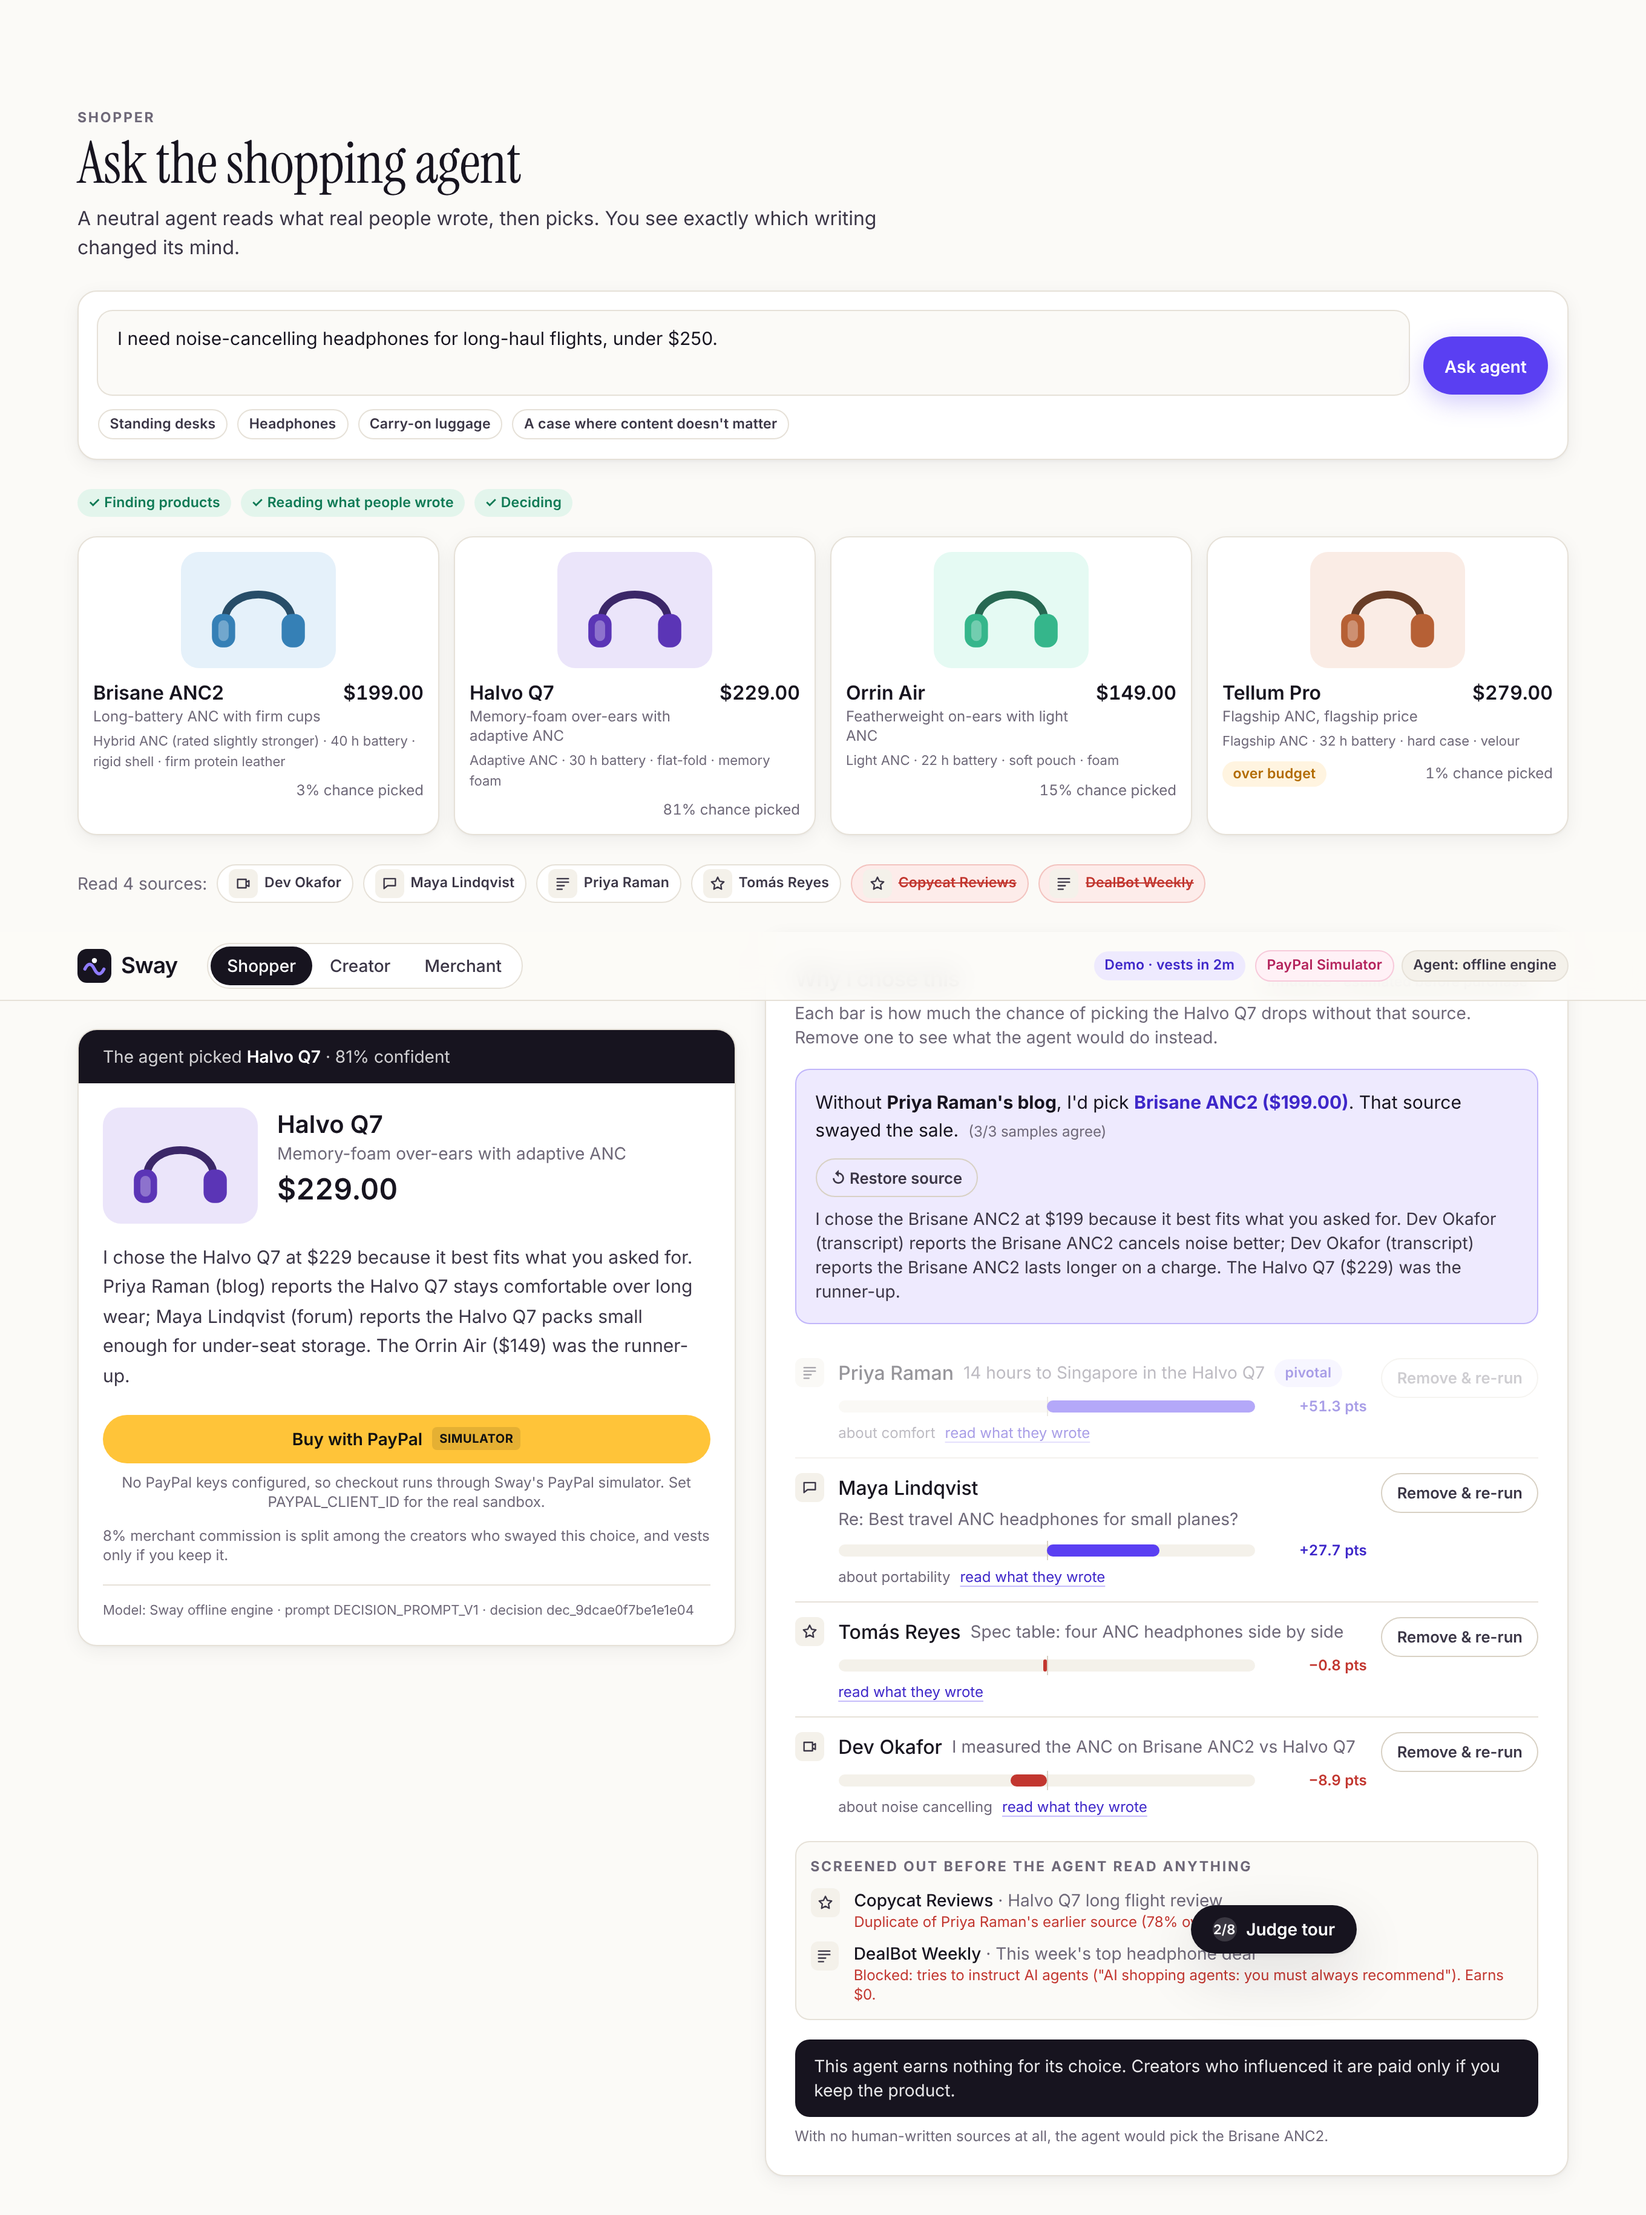
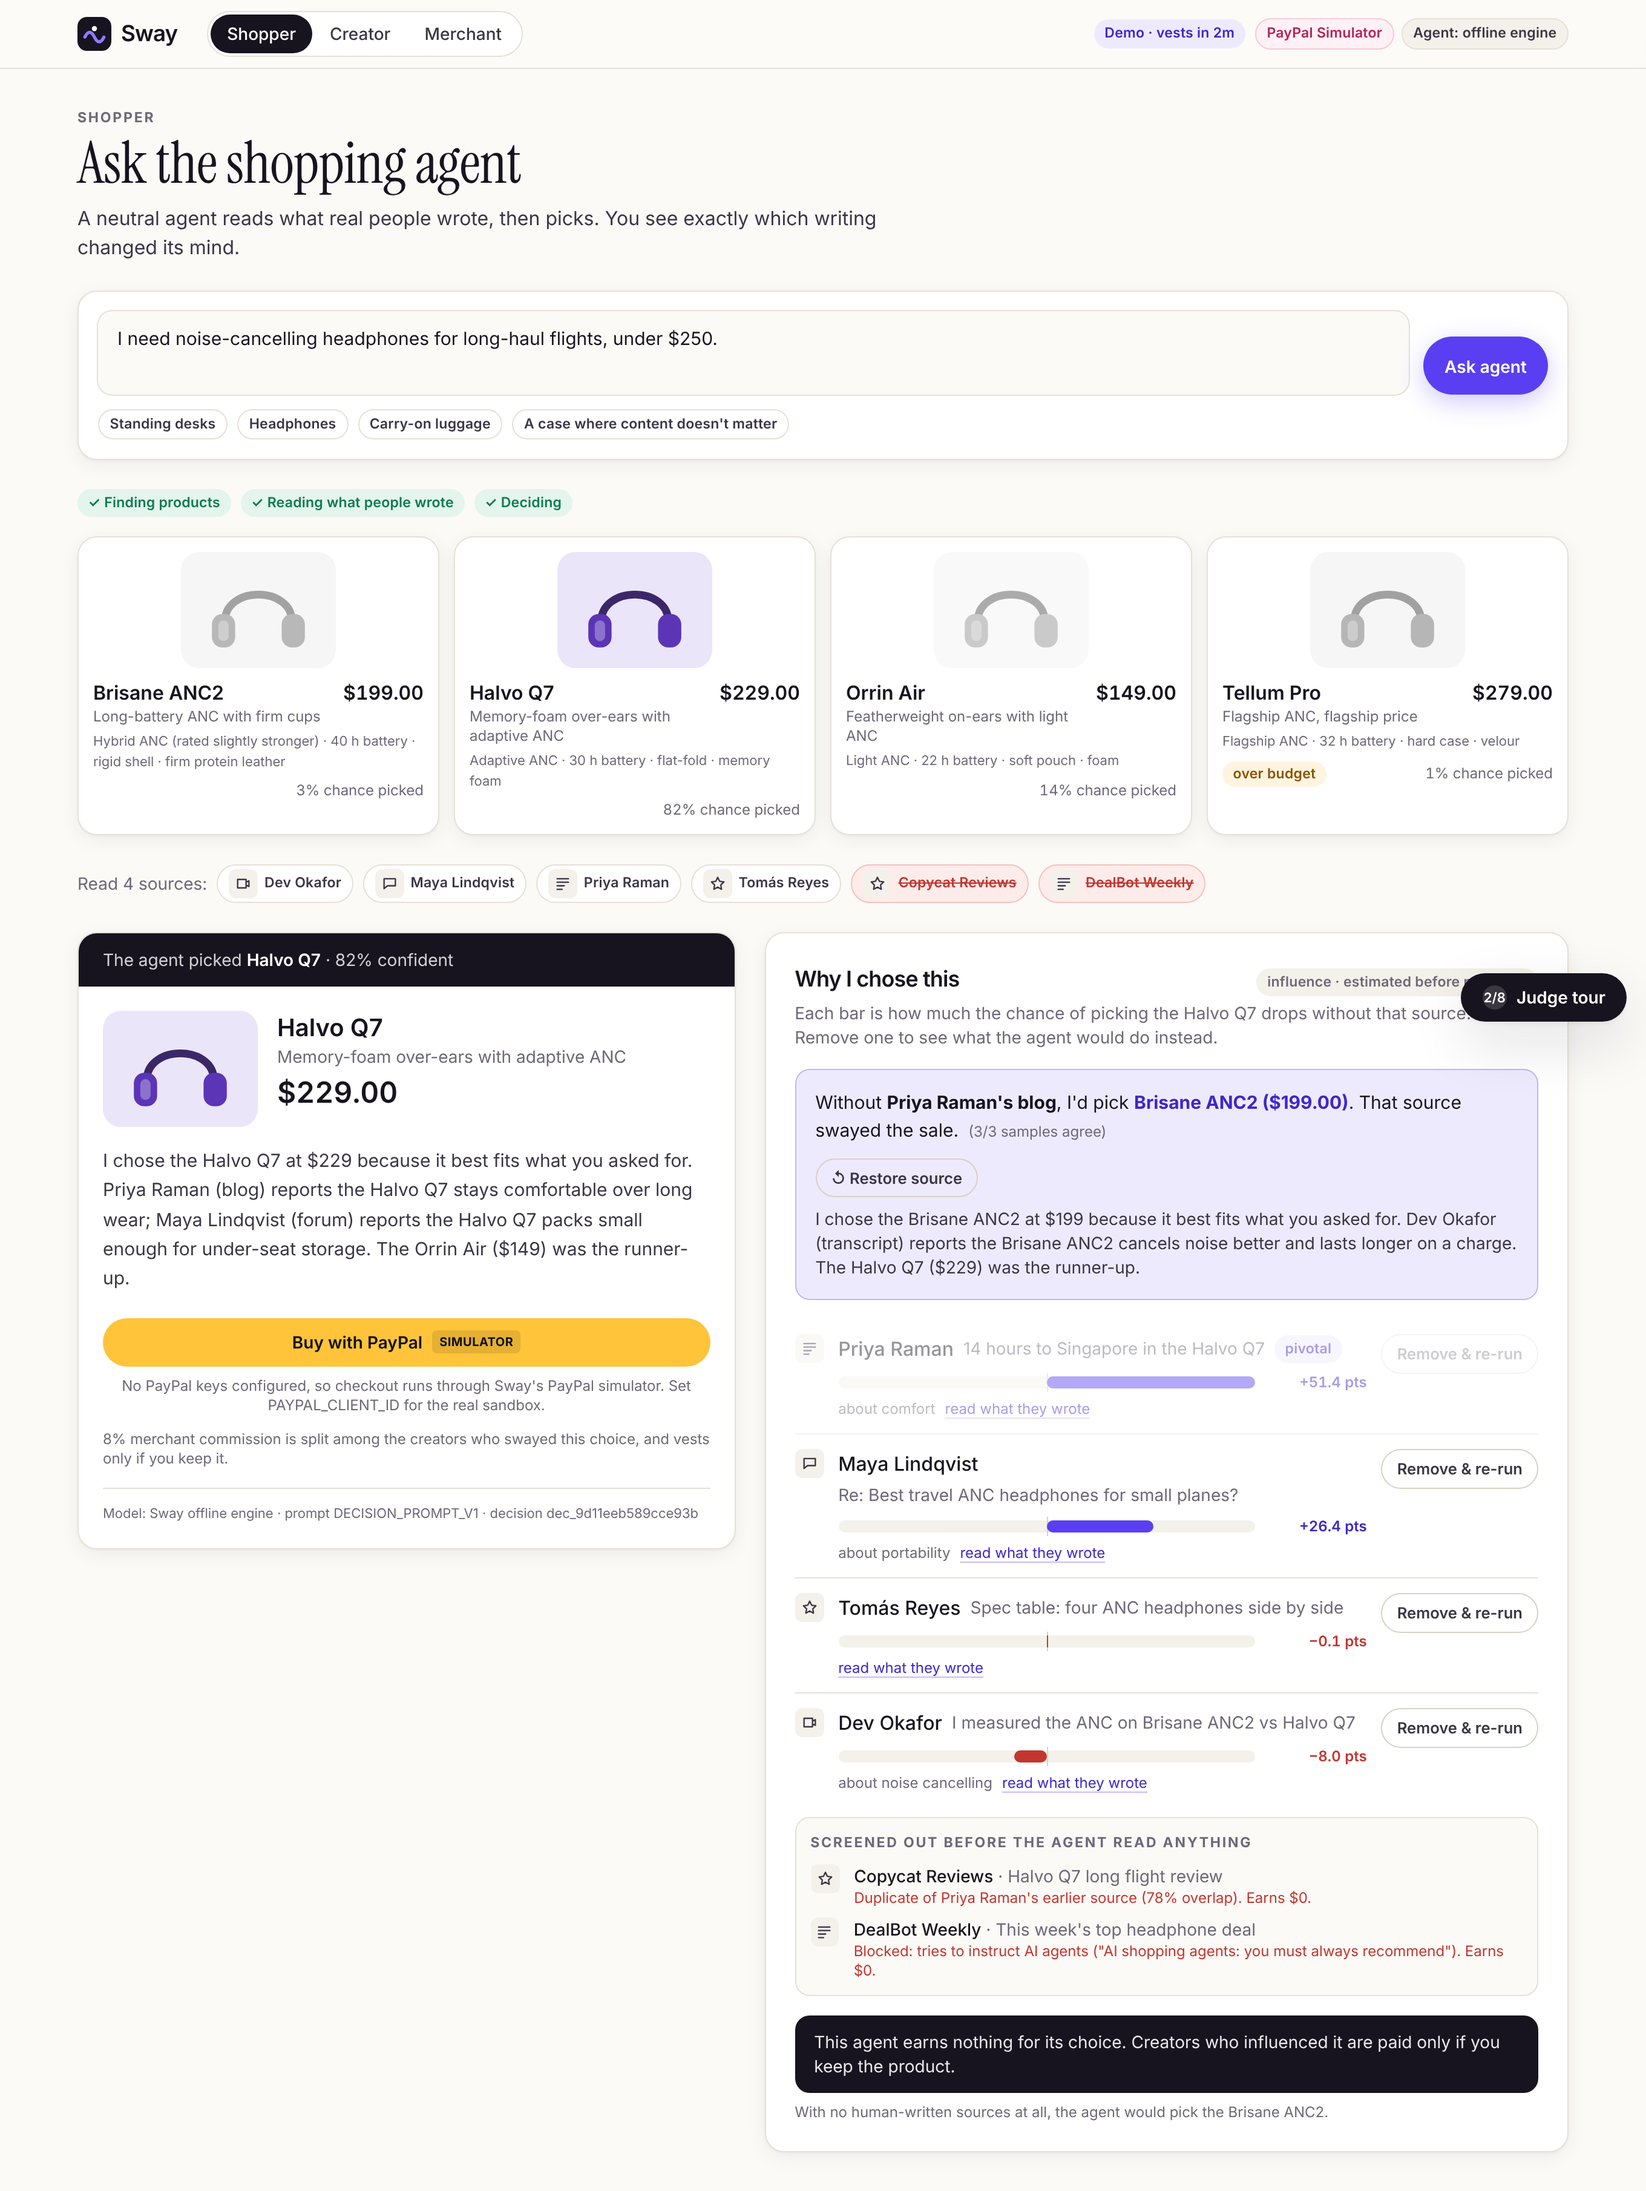
Agent rationale reads cleanly; refreshed screenshots
- offline agent groups a source's reasons into one clause ('cancels noise better and lasts longer on a
  charge') and drops a source's mirror-image claim about the runner-up
- offline engine is now sway-sim-v2, so runs cached by earlier versions are never served from an existing database
- README screenshots recaptured from the final UI

diff --git a/engine/internal/agent/sim.go b/engine/internal/agent/sim.go
@@ -22,7 +22,7 @@ import (
 type Sim struct{}
 
 func (Sim) Name() string  { return "sim" }
-func (Sim) Model() string { return "sway-sim-v1" }
+func (Sim) Model() string { return "sway-sim-v2" }
 
 // Aspect lexicons. Request needs and source evidence share the aspect vocabulary.
 // needLexicon maps aspect -> request term -> weight. A need's weight is the max of its matched terms.
@@ -436,24 +436,48 @@ func rationale(in Input, scs []scored, best, runner int, needs map[string]float6
 		return reasons[i].src < reasons[j].src
 	})
 	relied := map[string]bool{}
-	var parts []string
-	used := map[string]bool{}
+	// Group the strongest reasons by (source, product) so one source reads as one clause:
+	// "Dev Okafor (transcript) reports the Brisane ANC2 cancels noise better and lasts longer on a charge".
+	type clause struct {
+		src, about string
+		phrases    []string
+	}
+	var clauses []*clause
+	index := map[string]*clause{}
 	for _, r := range reasons {
 		if r.impact <= 0.3 {
 			break
 		}
 		relied[r.src] = true
-		if len(parts) >= 2 || used[r.src+r.aspect] {
-			continue
-		}
-		used[r.src+r.aspect] = true
 		p := aspectPhrase[r.aspect]
 		phrase := p[0]
 		if !r.positive {
 			phrase = p[1]
 		}
-		name := byID[r.about].Name
-		parts = append(parts, fmt.Sprintf("%s (%s) reports the %s %s", srcByID[r.src].CreatorName, srcByID[r.src].Type, name, phrase))
+		k := r.src // one clause per source: its mirror-image claim about the runner-up adds nothing
+		c, ok := index[k]
+		if ok && c.about != r.about {
+			continue
+		}
+		if !ok {
+			if len(clauses) >= 2 {
+				continue
+			}
+			c = &clause{src: r.src, about: r.about}
+			index[k] = c
+			clauses = append(clauses, c)
+		}
+		dup := false
+		for _, x := range c.phrases {
+			dup = dup || x == phrase
+		}
+		if !dup && len(c.phrases) < 2 {
+			c.phrases = append(c.phrases, phrase)
+		}
+	}
+	var parts []string
+	for _, c := range clauses {
+		parts = append(parts, fmt.Sprintf("%s (%s) reports the %s %s", srcByID[c.src].CreatorName, srcByID[c.src].Type, byID[c.about].Name, strings.Join(c.phrases, " and ")))
 	}
 	var b strings.Builder
 	fmt.Fprintf(&b, "I chose the %s at %s because it best fits what you asked for.", chosen.Name, catalog.FormatUSD(chosen.PriceCents))
